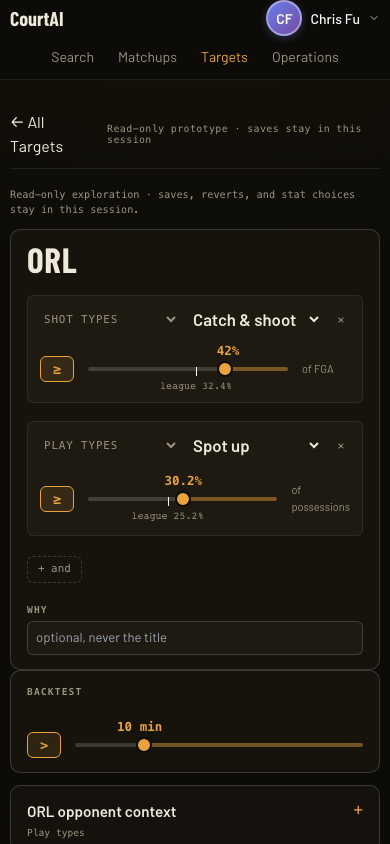
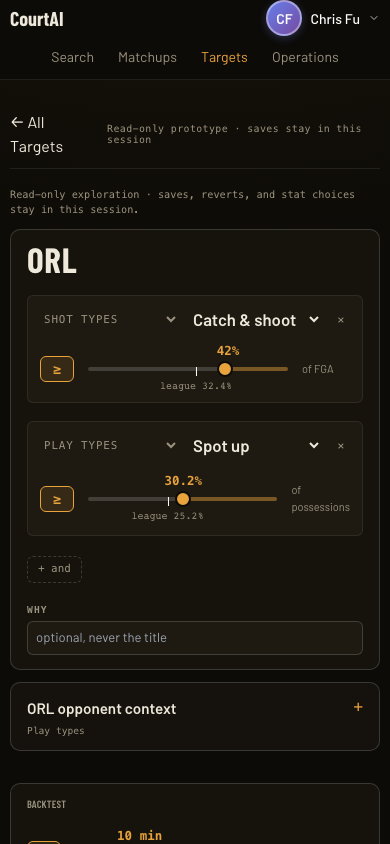
Place the complete prototype backtest beside the target editor

Changed region(s): [[0.0615, 0.8009, 0.9231, 1.0]]

diff --git a/src/targets/TargetLab.js b/src/targets/TargetLab.js
@@ -32,6 +32,8 @@ const describeLab = ({ valid, status, pending }) => {
 export default function TargetLab({
   draft,
   workbench = false,
+  sideBacktest = false,
+  backtestControls,
   immediateInitialPreview = false,
   children,
   preferences,
@@ -50,51 +52,50 @@ export default function TargetLab({
   const gradedBy = chosen?.gradedBy ?? columns[0];
   const changePreferences = onPreferencesChange ?? setLocalPreferences;
 
-  return (
-    <section className="target-lab" aria-labelledby="target-lab-heading">
-      <div className="target-lab-left">
-        <BacktestSampleProvider value={{ appearances: countAppearances(preview), stale }}>
-          {children}
-        </BacktestSampleProvider>
-        <h2 id="target-lab-heading" className="target-section-heading visually-hidden">
-          Lab · Backtest · season to date · vs {draft.opponent}
-        </h2>
-        <p role="status" className="target-lab-status">
-          {describeLab({ valid, status, pending })}
+  const evidence = (
+    <>
+      <h2 id="target-lab-heading" className="target-section-heading visually-hidden">
+        Lab · Backtest · season to date · vs {draft.opponent}
+      </h2>
+      <p role="status" className="target-lab-status">
+        {describeLab({ valid, status, pending })}
+      </p>
+      {status === 'error' && (
+        <p className="target-error" role="alert">
+          {error}
+          <button type="button" onClick={retry}>
+            Retry backtest
+          </button>
         </p>
-        {status === 'error' && (
-          <p className="target-error" role="alert">
-            {error}
-            <button type="button" onClick={retry}>
-              Retry backtest
-            </button>
-          </p>
-        )}
-        {preview && (
-          /* What was last read stays on screen, dimmed, while the next answer is
+      )}
+      {preview && (
+        /* What was last read stays on screen, dimmed, while the next answer is
            on its way: a keystroke never blanks the screen. */
-          <div
-            className={`target-lab-result${stale ? ' is-stale' : ''}`}
-            aria-busy={status === 'loading'}
+        <div
+          className={`target-lab-result${stale ? ' is-stale' : ''}`}
+          aria-busy={status === 'loading'}
+        >
+          <TargetRecord
+            backtest={preview}
+            columns={columns}
+            gradedBy={gradedBy}
+            onGrade={(column) => changePreferences({ columns, gradedBy: column })}
+            onPreferencesChange={changePreferences}
           >
-            <TargetRecord
-              backtest={preview}
-              columns={columns}
-              gradedBy={gradedBy}
-              onGrade={(column) => changePreferences({ columns, gradedBy: column })}
-              onPreferencesChange={changePreferences}
-            >
-              {/* Season to date is the evidence; whether the idea is actionable
+            {/* Season to date is the evidence; whether the idea is actionable
                 tonight is one line, present only when the opponent plays. */}
-              {preview.today && (
-                <p className={`target-lab-tonight${preview.today.fitCount ? ' has-fits' : ''}`}>
-                  <b>{preview.today.fitCount}</b> fit tonight vs {preview.target.opponent}
-                </p>
-              )}
-            </TargetRecord>
-          </div>
-        )}
-      </div>
+            {preview.today && (
+              <p className={`target-lab-tonight${preview.today.fitCount ? ' has-fits' : ''}`}>
+                <b>{preview.today.fitCount}</b> fit tonight vs {preview.target.opponent}
+              </p>
+            )}
+          </TargetRecord>
+        </div>
+      )}
+    </>
+  );
+  const games = (
+    <>
       {workbench && preview && (
         <div
           className={`target-lab-games${stale ? ' is-stale' : ''}`}
@@ -103,6 +104,35 @@ export default function TargetLab({
           <TargetGameRows backtest={preview} columns={columns} gradedBy={gradedBy} />
         </div>
       )}
+    </>
+  );
+
+  if (sideBacktest) {
+    return (
+      <section
+        className="target-lab target-context-side-backtest"
+        aria-labelledby="target-lab-heading"
+      >
+        <BacktestSampleProvider value={{ appearances: countAppearances(preview), stale }}>
+          <div className="target-context-editor-column">{children}</div>
+          <div className="target-context-backtest-column">
+            {backtestControls}
+            {evidence}
+            {games}
+          </div>
+        </BacktestSampleProvider>
+      </section>
+    );
+  }
+  return (
+    <section className="target-lab" aria-labelledby="target-lab-heading">
+      <div className="target-lab-left">
+        <BacktestSampleProvider value={{ appearances: countAppearances(preview), stale }}>
+          {children}
+        </BacktestSampleProvider>
+        {evidence}
+      </div>
+      {games}
     </section>
   );
 }

diff --git a/src/targets/TargetContextPrototype.js b/src/targets/TargetContextPrototype.js
@@ -3,6 +3,7 @@ import { Modal } from 'react-bootstrap';
 import { useSearchParams } from 'react-router-dom';
 import TargetForm, { blankTargetDraft } from './TargetForm';
 import TargetLab from './TargetLab';
+import { TargetBacktestRows } from './TargetConditions';
 import {
   codeForTeam,
   qualifierFor,
@@ -171,6 +172,7 @@ function TargetContextLayouts({
       submitLabel={submitLabel}
       showActions={showActions}
       cancelLabel={cancelLabel}
+      showBacktestControls={!workbench}
       highlightedQualifierIndex={highlightedQualifierIndex}
       onChange={onChange}
       onSubmit={onSubmit}
@@ -192,6 +194,20 @@ function TargetContextLayouts({
     <TargetLab
       draft={draft}
       workbench={workbench}
+      sideBacktest={workbench}
+      backtestControls={
+        workbench && (
+          <section className="target-form-card" aria-label="Backtest">
+            <h2 className="target-section-heading">Backtest</h2>
+            <fieldset disabled={busy} className="target-form-fields">
+              <TargetBacktestRows
+                conditions={draft.conditions}
+                onChange={(conditions) => onChange({ conditions })}
+              />
+            </fieldset>
+          </section>
+        )
+      }
       immediateInitialPreview={immediateInitialPreview}
       preferences={preferences}
       onPreferencesChange={onPreferencesChange}

diff --git a/src/targets/TargetForm.js b/src/targets/TargetForm.js
@@ -105,6 +105,7 @@ export default function TargetForm({
   cancelLabel = 'Cancel',
   title,
   highlightedQualifierIndex = null,
+  showBacktestControls = true,
 }) {
   const { valid, problem, request } = describeDraft(draft);
   const baselines = useDietBaselines();
@@ -263,13 +264,15 @@ export default function TargetForm({
           </label>
         </div>
 
-        <section className="target-form-card" aria-label="Backtest">
-          <span className="target-label target-section-label">Backtest</span>
-          <TargetBacktestRows
-            conditions={draft.conditions}
-            onChange={(conditions) => onChange({ conditions })}
-          />
-        </section>
+        {showBacktestControls && (
+          <section className="target-form-card" aria-label="Backtest">
+            <span className="target-label target-section-label">Backtest</span>
+            <TargetBacktestRows
+              conditions={draft.conditions}
+              onChange={(conditions) => onChange({ conditions })}
+            />
+          </section>
+        )}
 
         {!valid && <p className="target-form-problem">{problem}</p>}
         {showActions && (

diff --git a/src/targets/TargetContextPrototype.css b/src/targets/TargetContextPrototype.css
@@ -376,6 +376,29 @@
   margin-bottom: 12px;
 }
 
-.target-context-edit-workbench.target-workbench .target-lab-left {
-  position: static;
+.target-workbench.target-context-edit-workbench .target-context-side-backtest {
+  display: grid;
+  grid-template-columns: minmax(360px, 5fr) minmax(0, 6fr);
+  gap: 36px;
+  align-items: start;
+}
+.target-context-editor-column,
+.target-context-backtest-column {
+  min-width: 0;
+}
+.target-context-backtest-column > .target-form-card {
+  margin-bottom: 12px;
+}
+.target-context-backtest-column .target-lab-games {
+  margin-top: 24px;
+}
+@media (max-width: 819px) {
+  .target-workbench.target-context-edit-workbench .target-context-side-backtest {
+    grid-template-columns: minmax(0, 1fr);
+    gap: 20px;
+  }
+}
+
+.target-workbench.target-context-edit-workbench {
+  display: block;
 }

diff --git a/docs/prototypes/target-composer-context.md b/docs/prototypes/target-composer-context.md
@@ -13,7 +13,7 @@ Throwaway continuation on `prototype/targets-team-context`, following the list-p
 - **A — Inline table:** a compact collapsible opponent-context table above the qualifiers.
 - **B — Split context panel:** opponent stats beside the form on desktop, stacked on a phone.
 
-The create modal offers both options. The edit route now shares one collapsible context panel beneath the qualifiers, closed initially, and preserves the original game-by-game backtest column. The selected draft opponent controls the stats. Adding a stat appends a qualifier with an empty threshold; selecting an existing qualifier highlights it without changing its threshold. Saves and stat selections stay in memory.
+The create modal offers both options. The edit route now shares one collapsible context panel beneath the qualifiers, closed initially, and places the complete backtest beside the editor: minutes controls, status, summary, and game rows. The selected draft opponent controls the stats. Adding a stat appends a qualifier with an empty threshold; selecting an existing qualifier highlights it without changing its threshold. Saves and stat selections stay in memory.
 
 Run `npm run prototype:team-context` with the normal development Firebase/API configuration.
 
@@ -39,7 +39,7 @@ Cross-vendor review identified the Clippers display-name mismatch; opponent look
 
 No production promotion and no tracker publication. QA Vite server stopped after capture.
 
-## Edit backtest correction
+## Earlier edit backtest correction (superseded below)
 
 User: “The context panel is blocking the backtest on the edit page isn't it” → “yes go ahead and fix”.
 
@@ -50,3 +50,15 @@ Completion gate: lint, formatting, 683 unit tests, production build, and 107 bro
 Independent cross-vendor review prompted the normal-scroll correction and removal of the inert edit switcher. Internal horizontal scrolling is intentional for the narrow stats table; adding a qualifier retains the established focus behavior.
 
 Follow-up review confirmed the restored workbench and unchanged create layouts. Resolved its gallery-label and CSS-specificity findings; the bounded context table scroll remains intentional.
+
+## Full backtest beside the editor
+
+User clarification (unedited): “where is the backtest, it should be on the side”.
+
+The complete backtest now occupies the right column: minutes control, preview status, summary and hit rates, then game rows. The qualifier editor and collapsible opponent context occupy the left column. On phones these columns stack. Existing create options and normal routes retain their layout.
+
+Verified frontend `a12914147f7e8d2e950d38668d4751e8c789ac9c` plus this correction in the same prototype worktree. Full completion gate passed: lint, formatting, 683 unit tests, production build, 107 browser tests (2 deployment-only skips). Live authenticated ORL edit checks at desktop 1440×900 and phone 390×844 confirm the backtest is alongside the editor on desktop, expanding context preserves its position, and results remain reachable without document overflow.
+
+Changing the relocated minutes slider to 20 triggered a successful real preview request with `conditions.player_minutes: 20` and returned the backtest to its up-to-date state on both viewports. Zero account writes; owned QA server stopped.
+
+Independent review confirmed the side layout, preserved sample provider, and unchanged normal/create rendering. Restored 12px spacing below the moved controls. On phones, editor actions intentionally remain with the editor before the stacked backtest; they still save the shared draft including minutes changes. Live capture confirms the moved slider renders correctly and updates its request.
